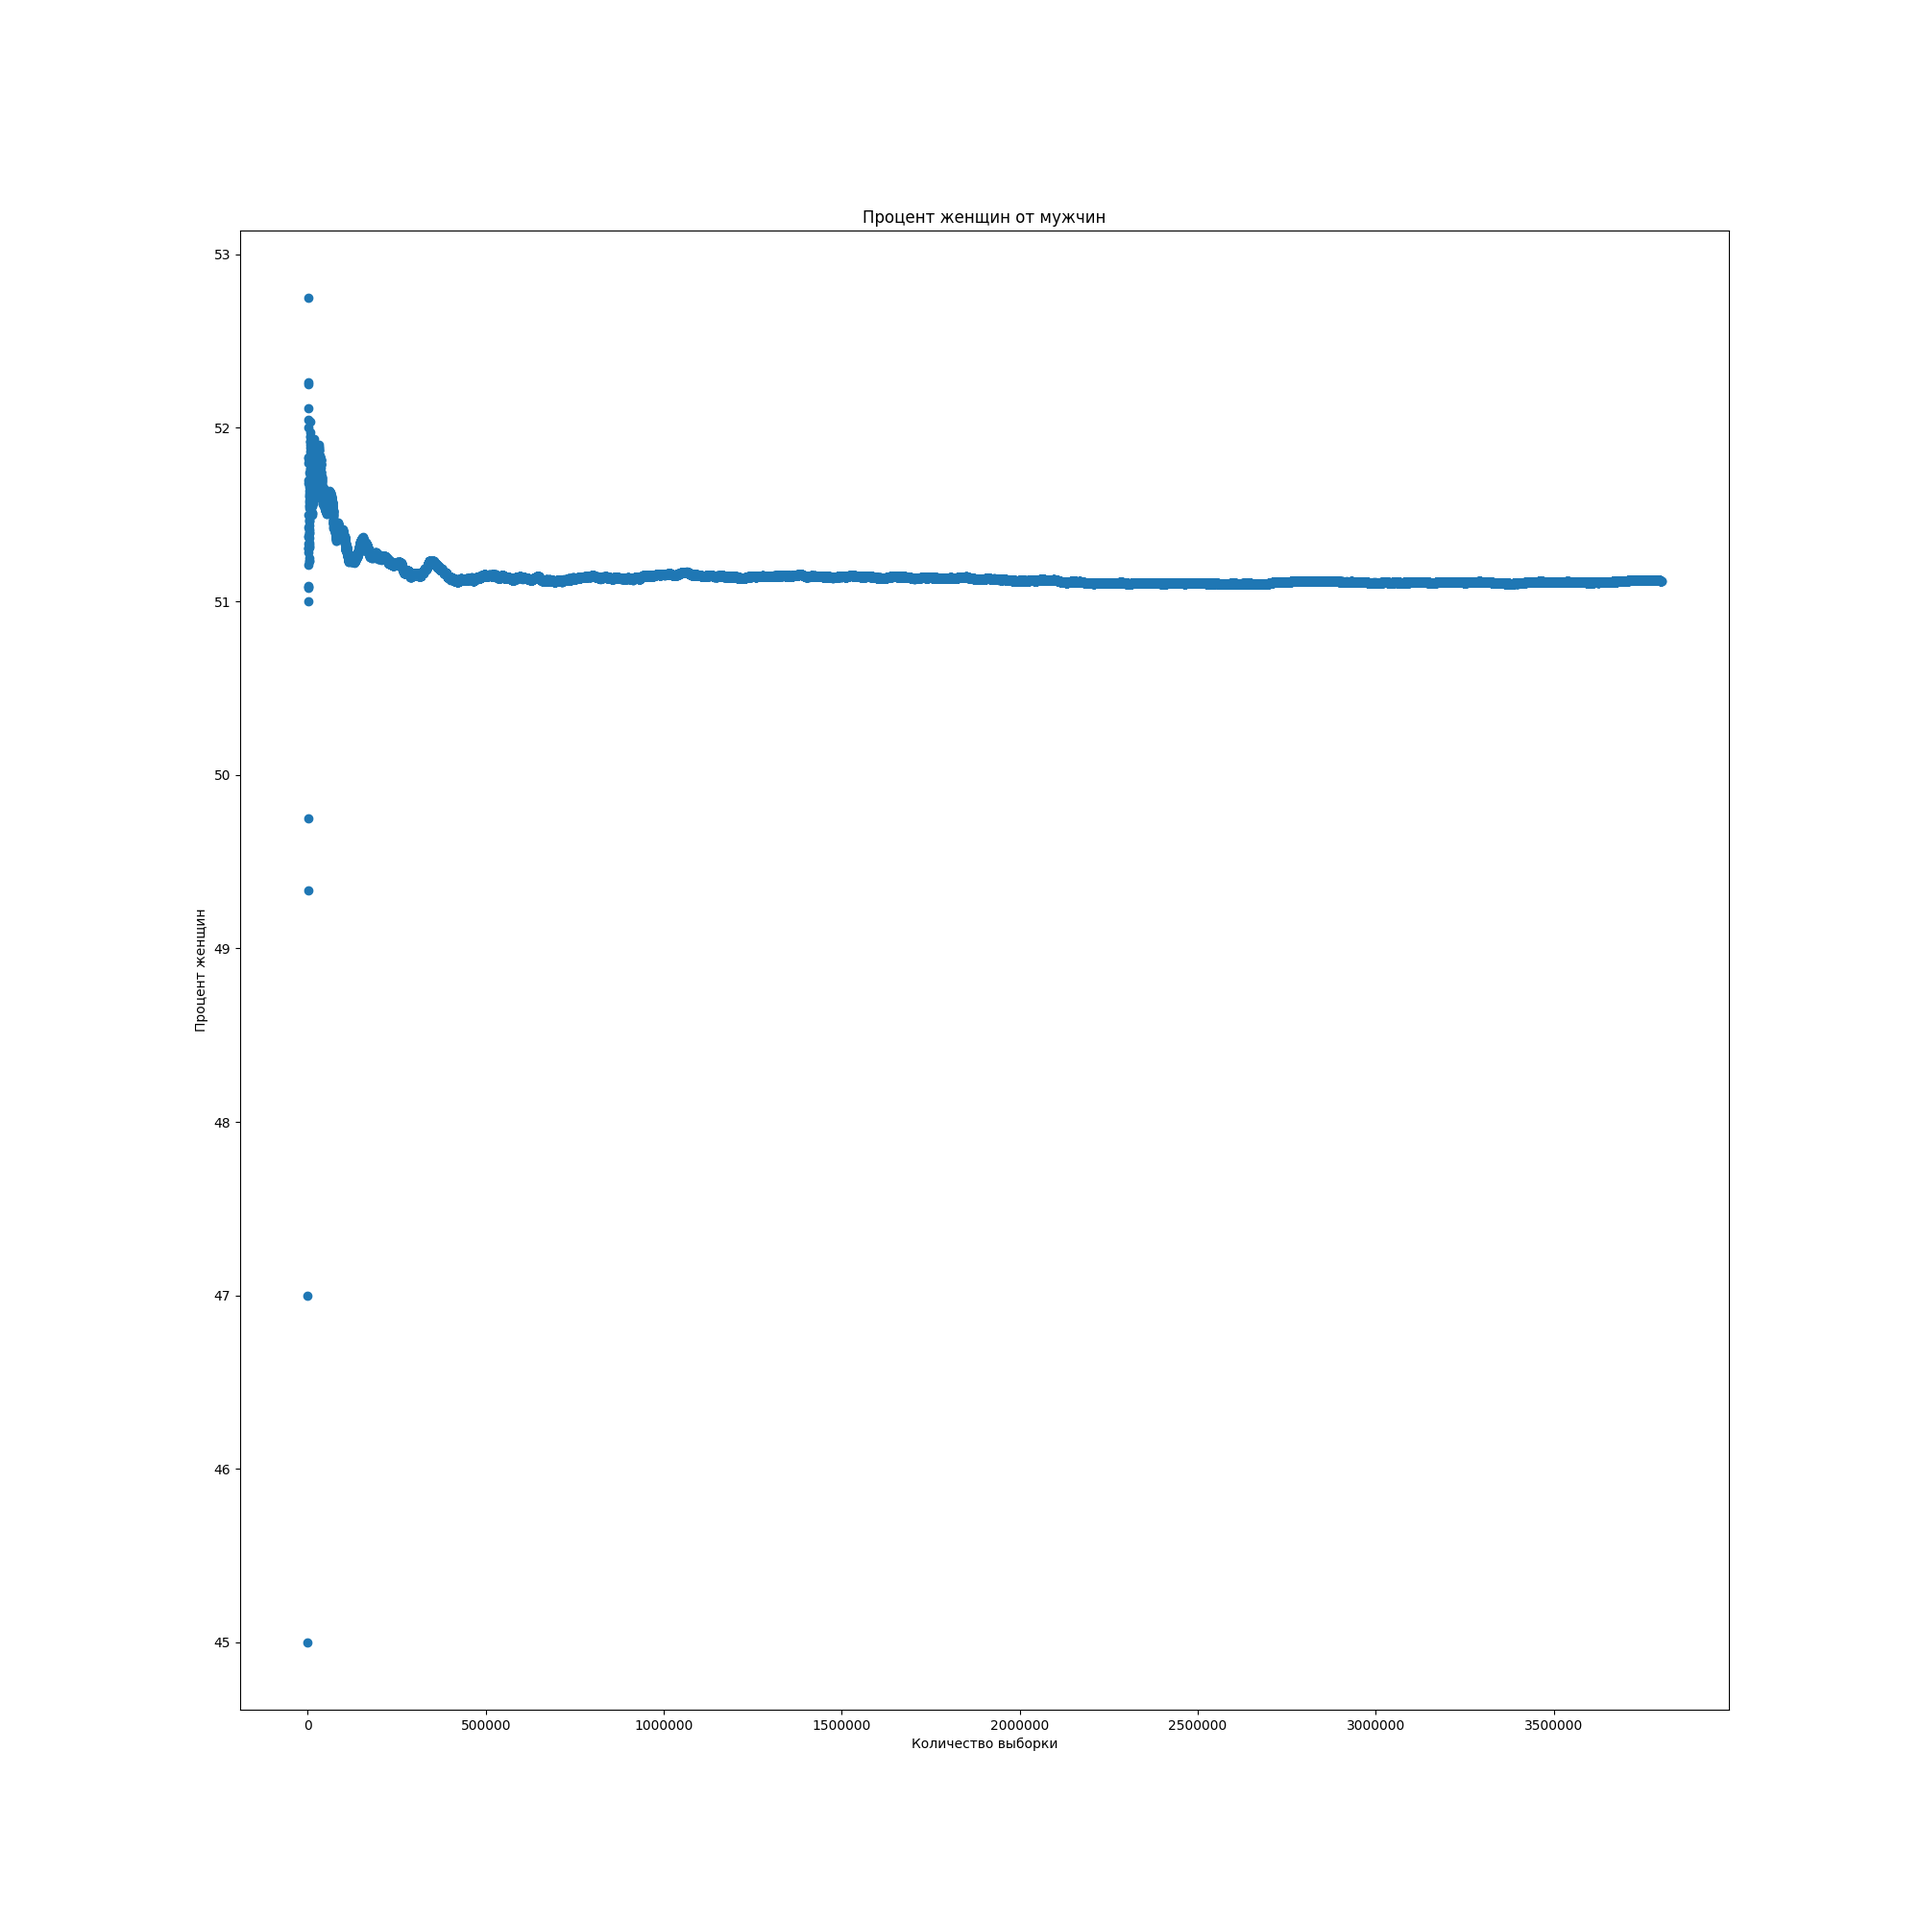
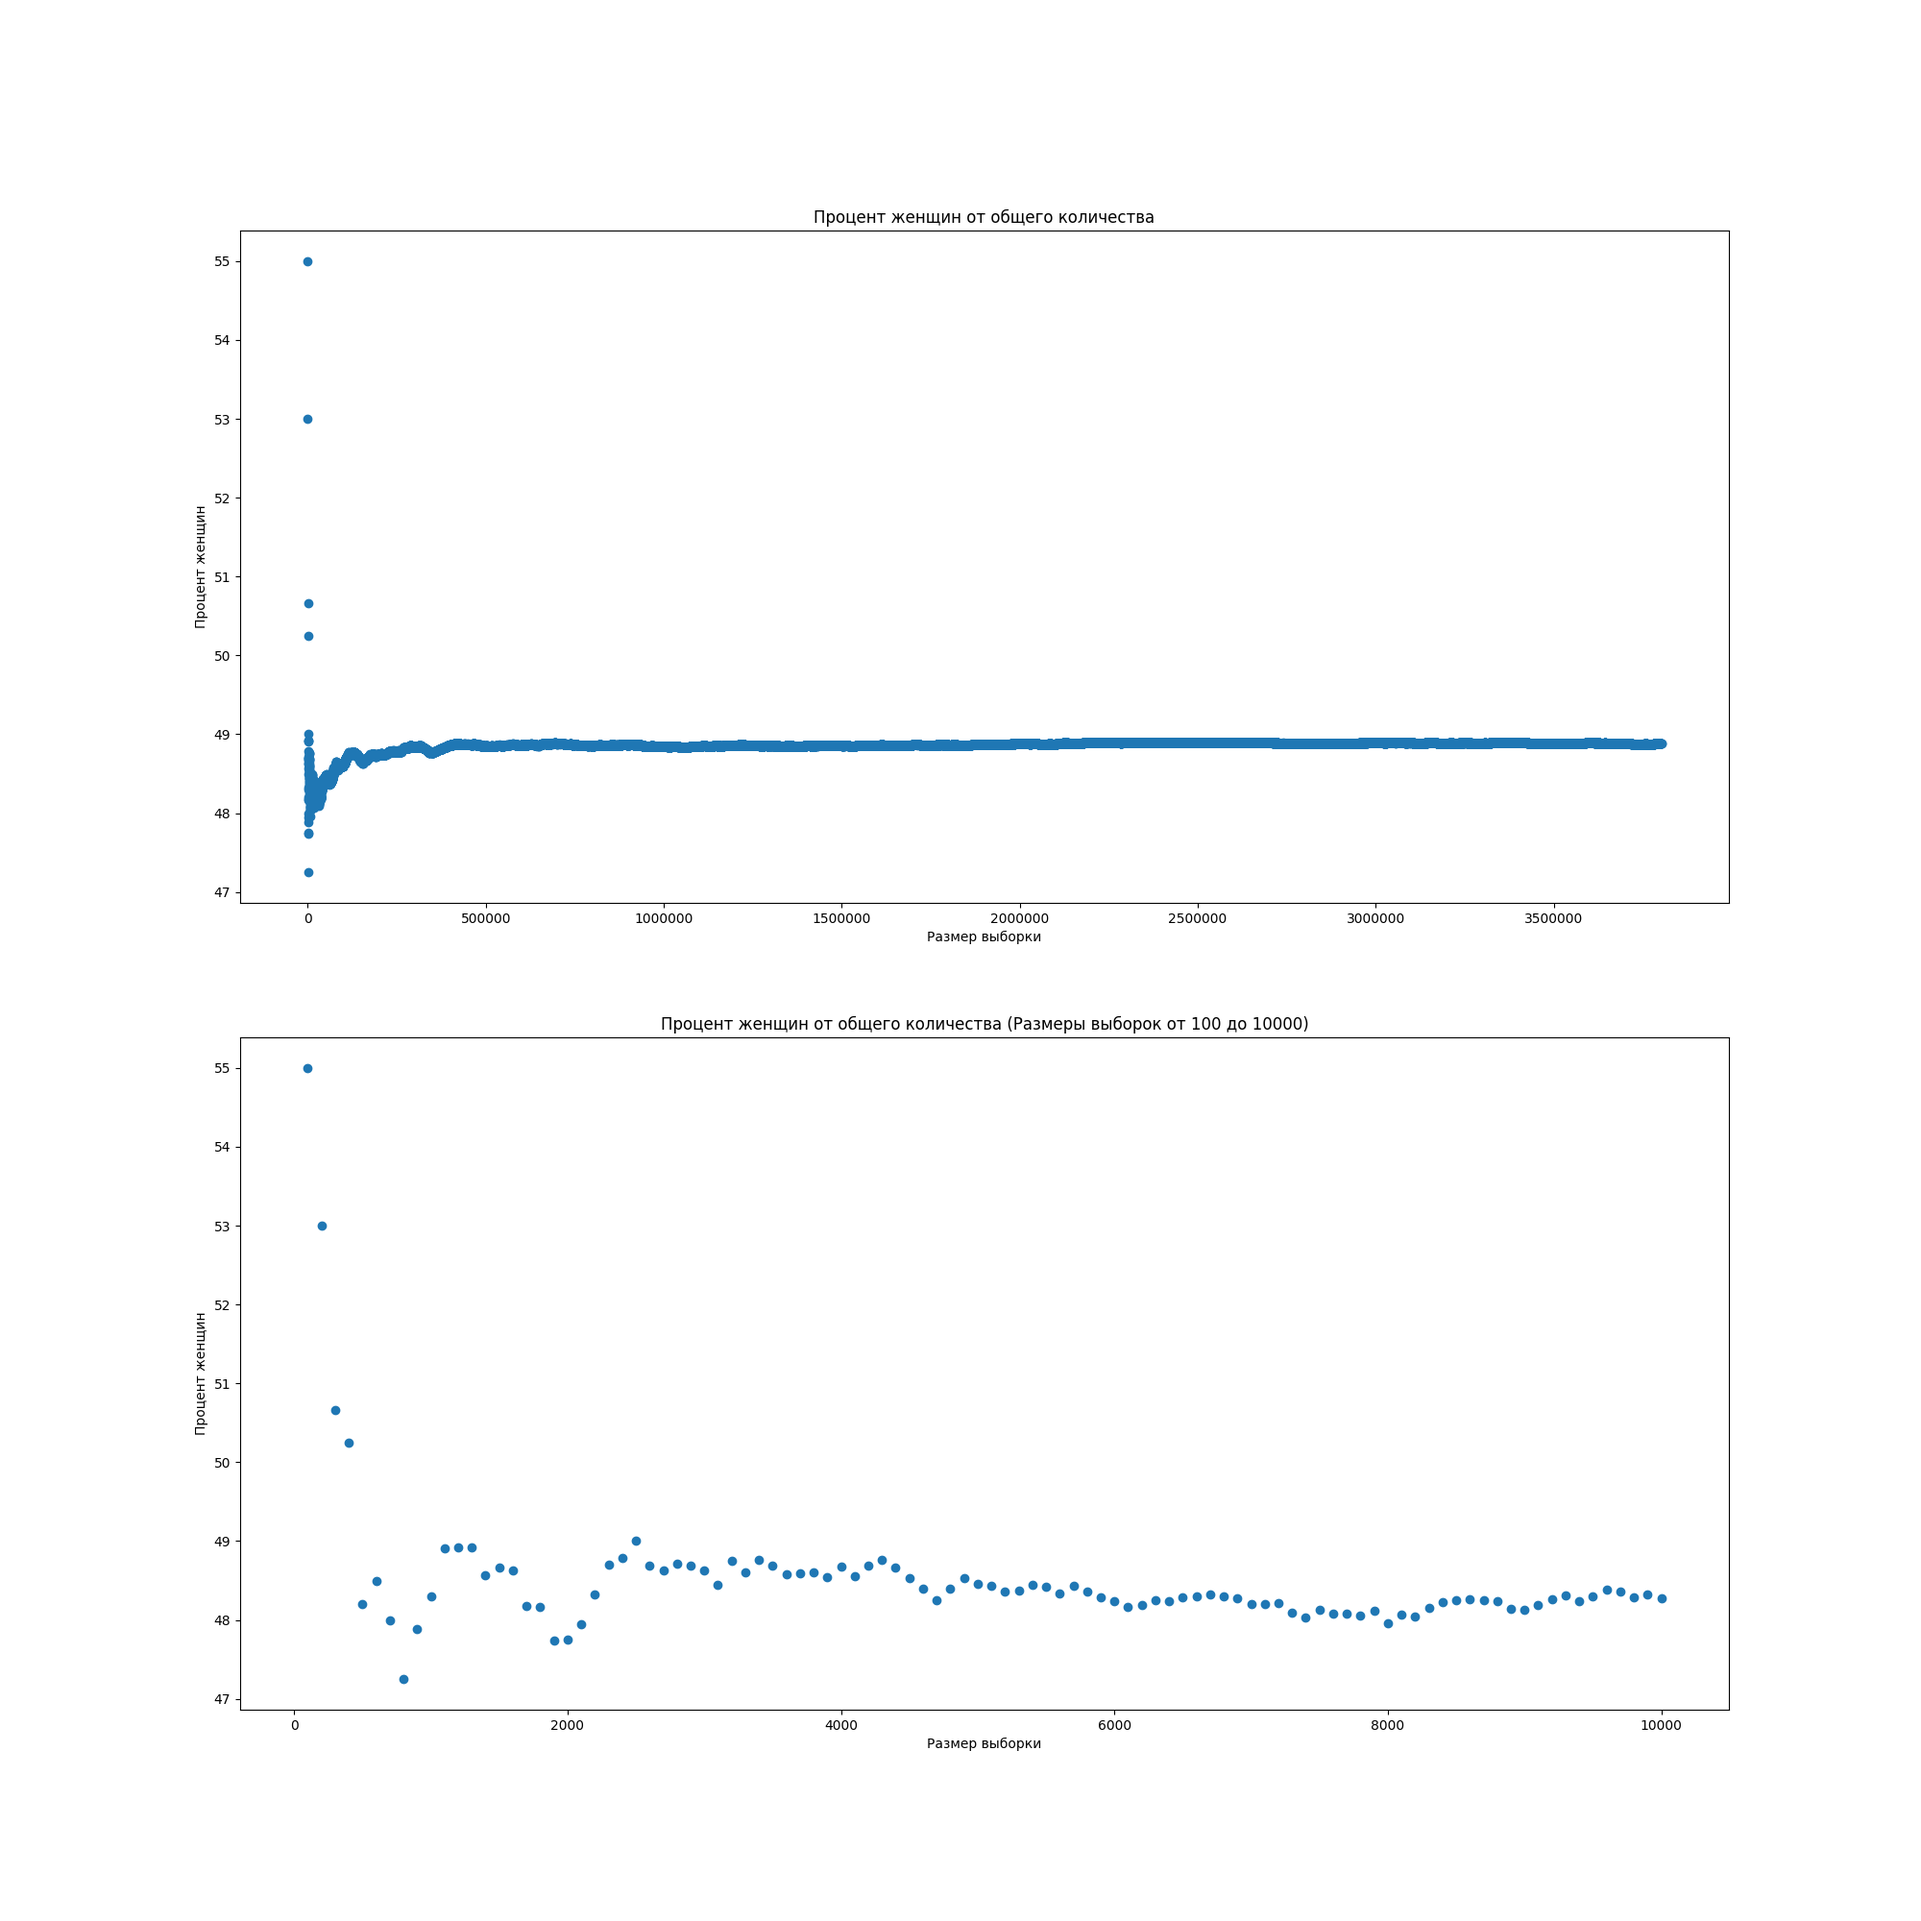
Edit Statistics.py

diff --git a/Statistics.py b/Statistics.py
@@ -53,22 +53,29 @@ class Statistics:
                 self.relations = pickle.load(f)
 
     def Plotting(self, sizeByWidth: int, sizeByHeight: int, outputImage: str):
-        fig, ax = plt.subplots()
+        figure, ax = plt.subplots(2, 1)
 
-        ax.ticklabel_format(useOffset=False, style='plain')
+        ax[0].ticklabel_format(useOffset=False, style='plain')
+        ax[0].scatter(self.selections, self.relations)
+        ax[0].set_title("Процент женщин от общего количества")
+        ax[0].set_xlabel("Размер выборки")
+        ax[0].set_ylabel("Процент женщин")
 
-        self.relations = [100 - i for i in self.relations]
-        ax.scatter(self.selections, self.relations)
+        ax[1].ticklabel_format(useOffset=False, style='plain')
+        ax[1].scatter(self.selections[:100], self.relations[:100])
+        ax[1].set_title("Процент женщин от общего количества (Размеры выборок от 100 до 10000)")
+        ax[1].set_xlabel("Размер выборки")
+        ax[1].set_ylabel("Процент женщин")
 
-        plt.title('Процент женщин от мужчин')
-        plt.xlabel("Количество выборки")
-        plt.ylabel("Процент женщин")
-
-        fig.set_figwidth(sizeByWidth)
-        fig.set_figheight(sizeByHeight)
+        figure.set_figwidth(sizeByWidth)
+        figure.set_figheight(sizeByHeight)
 
         plt.draw()
         plt.savefig(outputImage)
         plt.show()
+
         print("Количесто точек: " + str(len(self.relations)))
+        print("Процент мужчин от общего количества: " + str(100 - self.relations[-1]))
+        print("Процент женщин от общего количества: " + str(self.relations[-1]))
+        print("Шаг выборки: " + str(self.samplingStep))
         print("Среднее значение: " + str(sum(self.relations) / len(self.relations)))
